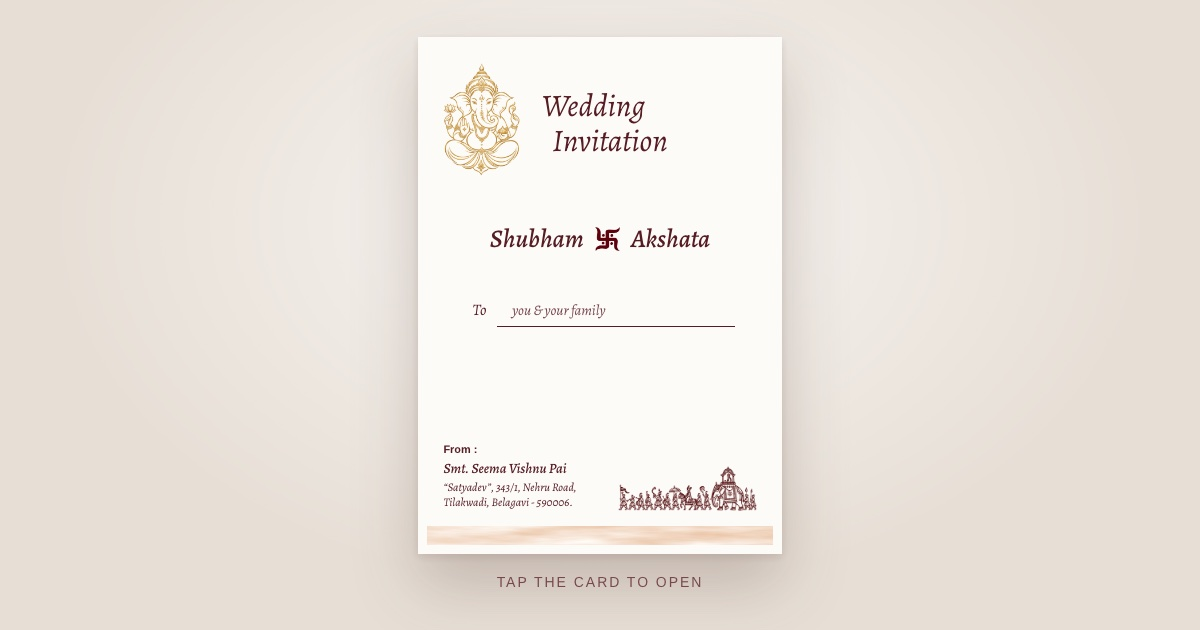
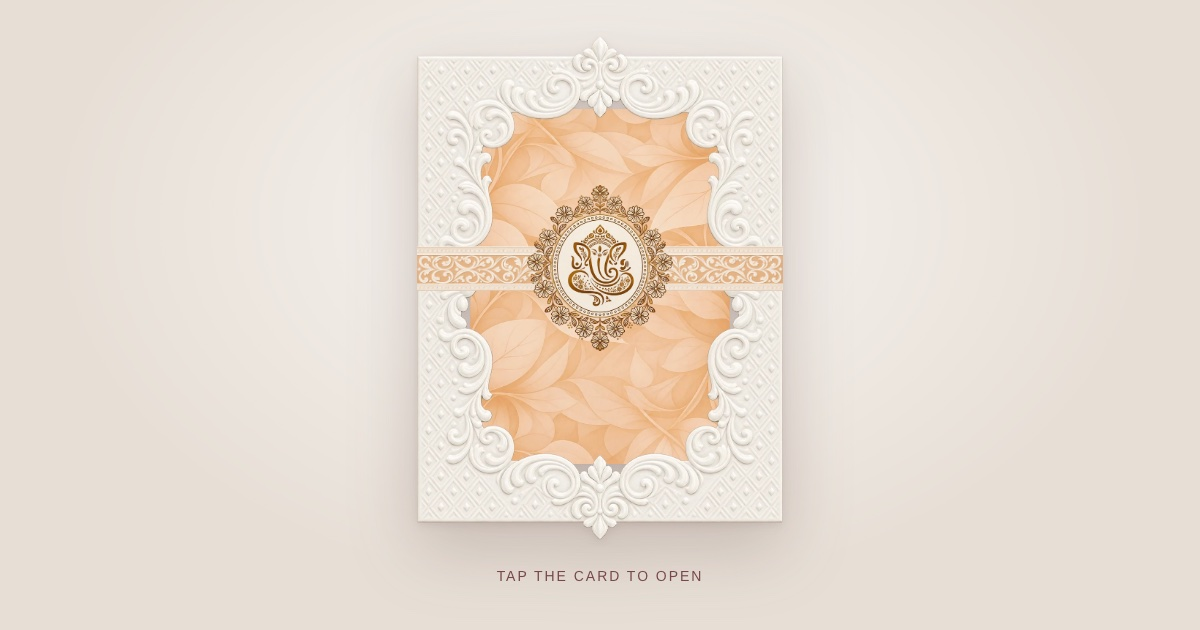
Replace envelope cover with the printed card's front and a medallion opening
The hint line now opens the card too, since guests were tapping it.

Changed region(s): [[0.3392, 0.0603, 0.6783, 0.9349]]

diff --git a/reception/index.html b/reception/index.html
@@ -59,50 +59,49 @@ img { display: block; max-width: 100%; height: auto; }
   transition: opacity .5s ease;
 }
 .cover {
-  container-type: inline-size;
   position: relative;
-  width: min(92vw, calc(82svh * 148 / 210), 520px);
-  aspect-ratio: 148 / 210;
-  background: var(--paper);
-  border: 0; padding: 0; margin: 0;
-  color: inherit; font: inherit; text-align: left; cursor: pointer;
-  box-shadow: 0 30px 60px rgba(80,50,40,.25), 0 3px 8px rgba(80,50,40,.12);
-  display: flex; flex-direction: column;
-  transform-origin: left center;
-  transform-style: preserve-3d;
-  transition: transform 1.6s cubic-bezier(.6,.02,.2,1), box-shadow 1.6s ease;
+  width: min(88vw, calc(80svh * 997 / 1374), 500px);
+  aspect-ratio: 997 / 1374;
+  border: 0; padding: 0; margin: 0; background: none; cursor: pointer;
+  filter: drop-shadow(0 26px 34px rgba(80,50,40,.22)) drop-shadow(0 3px 5px rgba(80,50,40,.12));
   animation: hover 5s ease-in-out infinite;
 }
 @keyframes hover { 50% { translate: 0 -6px; } }
 .cover:focus-visible { outline: 3px solid var(--gold); outline-offset: 6px; }
-.cover-body { flex: 1; display: flex; flex-direction: column; padding: 7cqw 7cqw 4cqw; }
-.cover-top { display: flex; align-items: flex-start; gap: 6cqw; }
-.cover-top img { width: 21cqw; }
-.cover-title { margin-top: 7cqw; font-size: 8.6cqw; line-height: 1.12; font-weight: 400; }
-.cover-names {
-  margin-top: 12cqw; text-align: center;
-  font-size: 7cqw; font-weight: 500;
-  display: flex; align-items: center; justify-content: center; gap: 3cqw;
+.cover > * { position: absolute; display: block; max-width: none; transition: opacity .4s ease, transform .4s ease, filter .4s ease; }
+.cv-leaves { left: 14.5%; top: 14.5%; width: 71%; height: 70.5%; object-fit: cover; }
+.cv-frame { inset: 0; width: 100%; height: 100%; }
+.cv-band { left: 0; width: 100%; top: 41.6%; }
+.cv-medal { left: 30%; width: 40%; top: 29.6%; }
+.cv-glow {
+  left: 50%; top: 46%; width: 70%; aspect-ratio: 1; translate: -50% -50%;
+  border-radius: 50%; opacity: 0; pointer-events: none;
+  background: radial-gradient(circle, rgba(255,240,205,.95), rgba(232,203,140,.45) 38%, rgba(232,203,140,0) 68%);
 }
-.cover-names img { width: 1em; }
-.cover-to { margin: 11cqw 6cqw 0 8cqw; display: flex; align-items: baseline; gap: 3cqw; font-size: 4.4cqw; }
-.cover-to span:last-child { flex: 1; border-bottom: 1.5px solid var(--ink); padding: 0 0 .25em 1em; font-size: 4cqw; color: var(--ink-soft); }
-.cover-foot { margin-top: auto; display: flex; align-items: flex-end; justify-content: space-between; gap: 3cqw; }
-.cover-from { display: grid; gap: .15em; font-size: 3.2cqw; line-height: 1.35; }
-.cover-from b { font-family: var(--f-sans); font-style: normal; font-size: 3cqw; }
-.cover-from .who { font-size: 3.9cqw; font-weight: 500; }
-.cover-foot > img { width: 38cqw; }
-.band { height: 5.2cqw; margin: 0 2.5cqw 2.5cqw; background: var(--marble) center / cover, var(--peach); }
 .hint {
+  border: 0; background: none; padding: 10px 14px; cursor: pointer;
   font-family: var(--f-sans); font-style: normal; font-size: 14px; letter-spacing: .14em; text-transform: uppercase;
   color: var(--ink-soft);
   animation: breathe 2.4s ease-in-out infinite;
 }
+.hint:focus-visible { outline: 3px solid var(--gold); outline-offset: 2px; }
 @keyframes breathe { 50% { opacity: .35; } }
 
-.opening .cover { transform: rotateY(-115deg); box-shadow: 0 10px 20px rgba(80,50,40,0); animation: none; }
+/* Opening: the medallion glows and comes forward while the frame, band and leaves dissolve */
+.opening .cover { animation: none; }
+.opening .cv-glow { animation: bloom 1.6s ease-out forwards; }
+@keyframes bloom { 0% { opacity: 0; scale: .6; } 35% { opacity: 1; scale: 1; } 100% { opacity: 0; scale: 2.4; } }
+.opening .cv-frame, .opening .cv-band {
+  opacity: 0; transform: scale(1.08); filter: blur(5px);
+  transition: opacity .9s ease .35s, transform 1.3s ease .35s, filter .9s ease .35s;
+}
+.opening .cv-leaves { opacity: 0; transform: scale(1.18); transition: opacity .9s ease .45s, transform 1.4s ease .45s; }
+.opening .cv-medal {
+  opacity: 0; transform: scale(1.55);
+  transition: transform 1.7s cubic-bezier(.3,.6,.2,1) .1s, opacity .8s ease 1s;
+}
 .opening .hint { opacity: 0; animation: none; transition: opacity .3s; }
-.opening { opacity: 0; visibility: hidden; transition: opacity .9s ease 1.1s, visibility 0s linear 2s; }
+.opening { opacity: 0; visibility: hidden; transition: opacity .8s ease 1.2s, visibility 0s linear 2s; }
 
 /* ---------- Story ---------- */
 main { position: relative; z-index: 1; }
@@ -295,26 +294,14 @@ footer { padding-bottom: 24px; }
 <canvas id="petals" aria-hidden="true"></canvas>
 
 <div class="envelope" id="envelope">
-  <button class="cover" id="cover" type="button" aria-label="Open the wedding invitation">
-    <span class="cover-body">
-      <span class="cover-top">
-        <img src="../images/ganesha.webp" alt="">
-        <span class="cover-title">Reception<br>&nbsp;&nbsp;Invitation</span>
-      </span>
-      <span class="cover-names">Shubham <img src="../images/swastik.webp" alt="Swastik"> Akshata</span>
-      <span class="cover-to"><span>To</span><span>you &amp; your family</span></span>
-      <span class="cover-foot">
-        <span class="cover-from">
-          <b>From :</b>
-          <span class="who">Smt. Seema Vishnu Pai</span>
-          <span>“Satyadev”, 343/1, Nehru Road,<br>Tilakwadi, Belagavi - 590006.</span>
-        </span>
-        <img src="../images/baraat.webp" alt="">
-      </span>
-    </span>
-    <span class="band" aria-hidden="true"></span>
+  <button class="cover" id="cover" type="button" aria-label="Open the reception invitation">
+    <img class="cv-leaves" src="../images/cover-leaves.webp" alt="">
+    <img class="cv-frame" src="../images/cover-frame.webp" alt="">
+    <img class="cv-band" src="../images/cover-band.webp" alt="">
+    <span class="cv-glow" aria-hidden="true"></span>
+    <img class="cv-medal" src="../images/cover-medallion.webp" alt="Shree Ganesha">
   </button>
-  <p class="hint">Tap the card to open</p>
+  <button class="hint" id="hint" type="button">Tap the card to open</button>
 </div>
 
 <p class="scroll-cue" id="scroll-cue" aria-hidden="true">Scroll<i></i></p>
@@ -534,7 +521,7 @@ footer { padding-bottom: 24px; }
     armReveals();
     cover.focus({ preventScroll: true });
   }
-  cover.addEventListener("click", open);
+  env.addEventListener("click", open);
   document.getElementById("reseal").addEventListener("click", close);
 
   const cue = document.getElementById("scroll-cue");

diff --git a/index.html b/index.html
@@ -59,50 +59,49 @@ img { display: block; max-width: 100%; height: auto; }
   transition: opacity .5s ease;
 }
 .cover {
-  container-type: inline-size;
   position: relative;
-  width: min(92vw, calc(82svh * 148 / 210), 520px);
-  aspect-ratio: 148 / 210;
-  background: var(--paper);
-  border: 0; padding: 0; margin: 0;
-  color: inherit; font: inherit; text-align: left; cursor: pointer;
-  box-shadow: 0 30px 60px rgba(80,50,40,.25), 0 3px 8px rgba(80,50,40,.12);
-  display: flex; flex-direction: column;
-  transform-origin: left center;
-  transform-style: preserve-3d;
-  transition: transform 1.6s cubic-bezier(.6,.02,.2,1), box-shadow 1.6s ease;
+  width: min(88vw, calc(80svh * 997 / 1374), 500px);
+  aspect-ratio: 997 / 1374;
+  border: 0; padding: 0; margin: 0; background: none; cursor: pointer;
+  filter: drop-shadow(0 26px 34px rgba(80,50,40,.22)) drop-shadow(0 3px 5px rgba(80,50,40,.12));
   animation: hover 5s ease-in-out infinite;
 }
 @keyframes hover { 50% { translate: 0 -6px; } }
 .cover:focus-visible { outline: 3px solid var(--gold); outline-offset: 6px; }
-.cover-body { flex: 1; display: flex; flex-direction: column; padding: 7cqw 7cqw 4cqw; }
-.cover-top { display: flex; align-items: flex-start; gap: 6cqw; }
-.cover-top img { width: 21cqw; }
-.cover-title { margin-top: 7cqw; font-size: 8.6cqw; line-height: 1.12; font-weight: 400; }
-.cover-names {
-  margin-top: 12cqw; text-align: center;
-  font-size: 7cqw; font-weight: 500;
-  display: flex; align-items: center; justify-content: center; gap: 3cqw;
+.cover > * { position: absolute; display: block; max-width: none; transition: opacity .4s ease, transform .4s ease, filter .4s ease; }
+.cv-leaves { left: 14.5%; top: 14.5%; width: 71%; height: 70.5%; object-fit: cover; }
+.cv-frame { inset: 0; width: 100%; height: 100%; }
+.cv-band { left: 0; width: 100%; top: 41.6%; }
+.cv-medal { left: 30%; width: 40%; top: 29.6%; }
+.cv-glow {
+  left: 50%; top: 46%; width: 70%; aspect-ratio: 1; translate: -50% -50%;
+  border-radius: 50%; opacity: 0; pointer-events: none;
+  background: radial-gradient(circle, rgba(255,240,205,.95), rgba(232,203,140,.45) 38%, rgba(232,203,140,0) 68%);
 }
-.cover-names img { width: 1em; }
-.cover-to { margin: 11cqw 6cqw 0 8cqw; display: flex; align-items: baseline; gap: 3cqw; font-size: 4.4cqw; }
-.cover-to span:last-child { flex: 1; border-bottom: 1.5px solid var(--ink); padding: 0 0 .25em 1em; font-size: 4cqw; color: var(--ink-soft); }
-.cover-foot { margin-top: auto; display: flex; align-items: flex-end; justify-content: space-between; gap: 3cqw; }
-.cover-from { display: grid; gap: .15em; font-size: 3.2cqw; line-height: 1.35; }
-.cover-from b { font-family: var(--f-sans); font-style: normal; font-size: 3cqw; }
-.cover-from .who { font-size: 3.9cqw; font-weight: 500; }
-.cover-foot > img { width: 38cqw; }
-.band { height: 5.2cqw; margin: 0 2.5cqw 2.5cqw; background: var(--marble) center / cover, var(--peach); }
 .hint {
+  border: 0; background: none; padding: 10px 14px; cursor: pointer;
   font-family: var(--f-sans); font-style: normal; font-size: 14px; letter-spacing: .14em; text-transform: uppercase;
   color: var(--ink-soft);
   animation: breathe 2.4s ease-in-out infinite;
 }
+.hint:focus-visible { outline: 3px solid var(--gold); outline-offset: 2px; }
 @keyframes breathe { 50% { opacity: .35; } }
 
-.opening .cover { transform: rotateY(-115deg); box-shadow: 0 10px 20px rgba(80,50,40,0); animation: none; }
+/* Opening: the medallion glows and comes forward while the frame, band and leaves dissolve */
+.opening .cover { animation: none; }
+.opening .cv-glow { animation: bloom 1.6s ease-out forwards; }
+@keyframes bloom { 0% { opacity: 0; scale: .6; } 35% { opacity: 1; scale: 1; } 100% { opacity: 0; scale: 2.4; } }
+.opening .cv-frame, .opening .cv-band {
+  opacity: 0; transform: scale(1.08); filter: blur(5px);
+  transition: opacity .9s ease .35s, transform 1.3s ease .35s, filter .9s ease .35s;
+}
+.opening .cv-leaves { opacity: 0; transform: scale(1.18); transition: opacity .9s ease .45s, transform 1.4s ease .45s; }
+.opening .cv-medal {
+  opacity: 0; transform: scale(1.55);
+  transition: transform 1.7s cubic-bezier(.3,.6,.2,1) .1s, opacity .8s ease 1s;
+}
 .opening .hint { opacity: 0; animation: none; transition: opacity .3s; }
-.opening { opacity: 0; visibility: hidden; transition: opacity .9s ease 1.1s, visibility 0s linear 2s; }
+.opening { opacity: 0; visibility: hidden; transition: opacity .8s ease 1.2s, visibility 0s linear 2s; }
 
 /* ---------- Story ---------- */
 main { position: relative; z-index: 1; }
@@ -296,25 +295,13 @@ footer { padding-bottom: 24px; }
 
 <div class="envelope" id="envelope">
   <button class="cover" id="cover" type="button" aria-label="Open the wedding invitation">
-    <span class="cover-body">
-      <span class="cover-top">
-        <img src="images/ganesha.webp" alt="">
-        <span class="cover-title">Wedding<br>&nbsp;&nbsp;Invitation</span>
-      </span>
-      <span class="cover-names">Shubham <img src="images/swastik.webp" alt="Swastik"> Akshata</span>
-      <span class="cover-to"><span>To</span><span>you &amp; your family</span></span>
-      <span class="cover-foot">
-        <span class="cover-from">
-          <b>From :</b>
-          <span class="who">Smt. Seema Vishnu Pai</span>
-          <span>“Satyadev”, 343/1, Nehru Road,<br>Tilakwadi, Belagavi - 590006.</span>
-        </span>
-        <img src="images/baraat.webp" alt="">
-      </span>
-    </span>
-    <span class="band" aria-hidden="true"></span>
+    <img class="cv-leaves" src="images/cover-leaves.webp" alt="">
+    <img class="cv-frame" src="images/cover-frame.webp" alt="">
+    <img class="cv-band" src="images/cover-band.webp" alt="">
+    <span class="cv-glow" aria-hidden="true"></span>
+    <img class="cv-medal" src="images/cover-medallion.webp" alt="Shree Ganesha">
   </button>
-  <p class="hint">Tap the card to open</p>
+  <button class="hint" id="hint" type="button">Tap the card to open</button>
 </div>
 
 <p class="scroll-cue" id="scroll-cue" aria-hidden="true">Scroll<i></i></p>
@@ -534,7 +521,7 @@ footer { padding-bottom: 24px; }
     armReveals();
     cover.focus({ preventScroll: true });
   }
-  cover.addEventListener("click", open);
+  env.addEventListener("click", open);
   document.getElementById("reseal").addEventListener("click", close);
 
   const cue = document.getElementById("scroll-cue");
